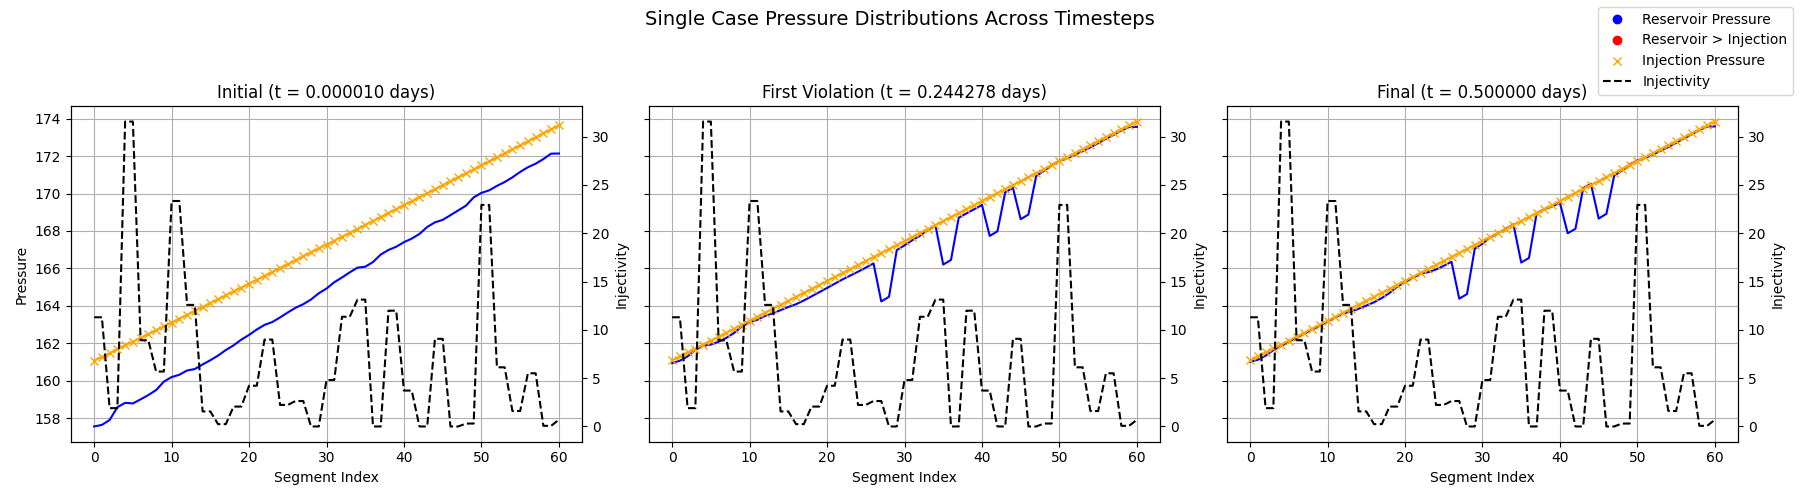
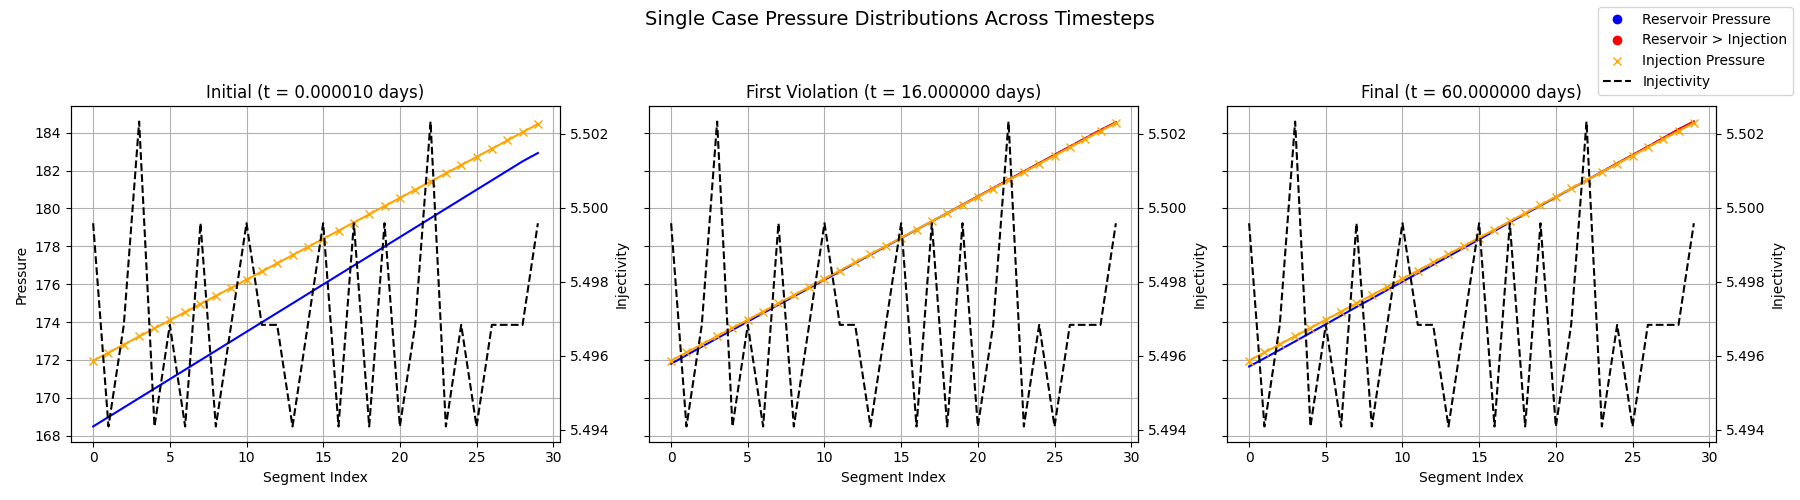
check_wells_2 updated

diff --git a/check_wells_2.py b/check_wells_2.py
@@ -5,8 +5,11 @@ from darts.tools.hdf5_tools import load_hdf5_to_dict
 from matplotlib.lines import Line2D
 
 # --- USER SETTINGS ---
-case_folder = "./results/results_ccs_fault=FM1_cut=CO1_grid=G1_top=TS2_mod=OBJ_mult=2_wbhp_000MS_Check"
-#case_folder = "./results/results_ccs_grid_CCS_maarten_wbhp_000MS_Check"
+
+case_folder = "./results/results_ccs_grid_CCS_maarten_wbhp_000MS_Check"
+#case_folder = "./results/results_ccs_fault=FM1_cut=CO1_grid=G1_top=TS2_mod=OBJ_mult=2_wbhp_000MS_Check"
+#case_folder = "./results/results_ccs_fault=FM1_cut=CO1_grid=G1_top=TS2_mod=PIX_mult=1_wbhp_000MS_Check"
+
 output_dir = "./plot_results/single_case_plot"
 os.makedirs(output_dir, exist_ok=True)
 

diff --git a/case_base.py b/case_base.py
@@ -76,8 +76,8 @@ def get_case_files(case: str):
 
 #def input_data_base(idata: InputData, case: str):
 def input_data_base(idata: CustomInputData, case: str):
-    dt = 0.1 #1e-5 #365 #365 #365.25 #365.25  # one report timestep length, [days]
-    idata.sim.n_time_steps = 5 #3 #8 #5 #8 #20 #20 #12#4 #30 #was 20
+    dt = 2 #1e-5 #365 #365 #365.25 #365.25  # one report timestep length, [days]
+    idata.sim.n_time_steps = 30 #3 #8 #5 #8 #20 #20 #12#4 #30 #was 20
     idata.sim.time_steps = np.zeros(idata.sim.n_time_steps) + dt
 
     # time stepping and convergence parameters
